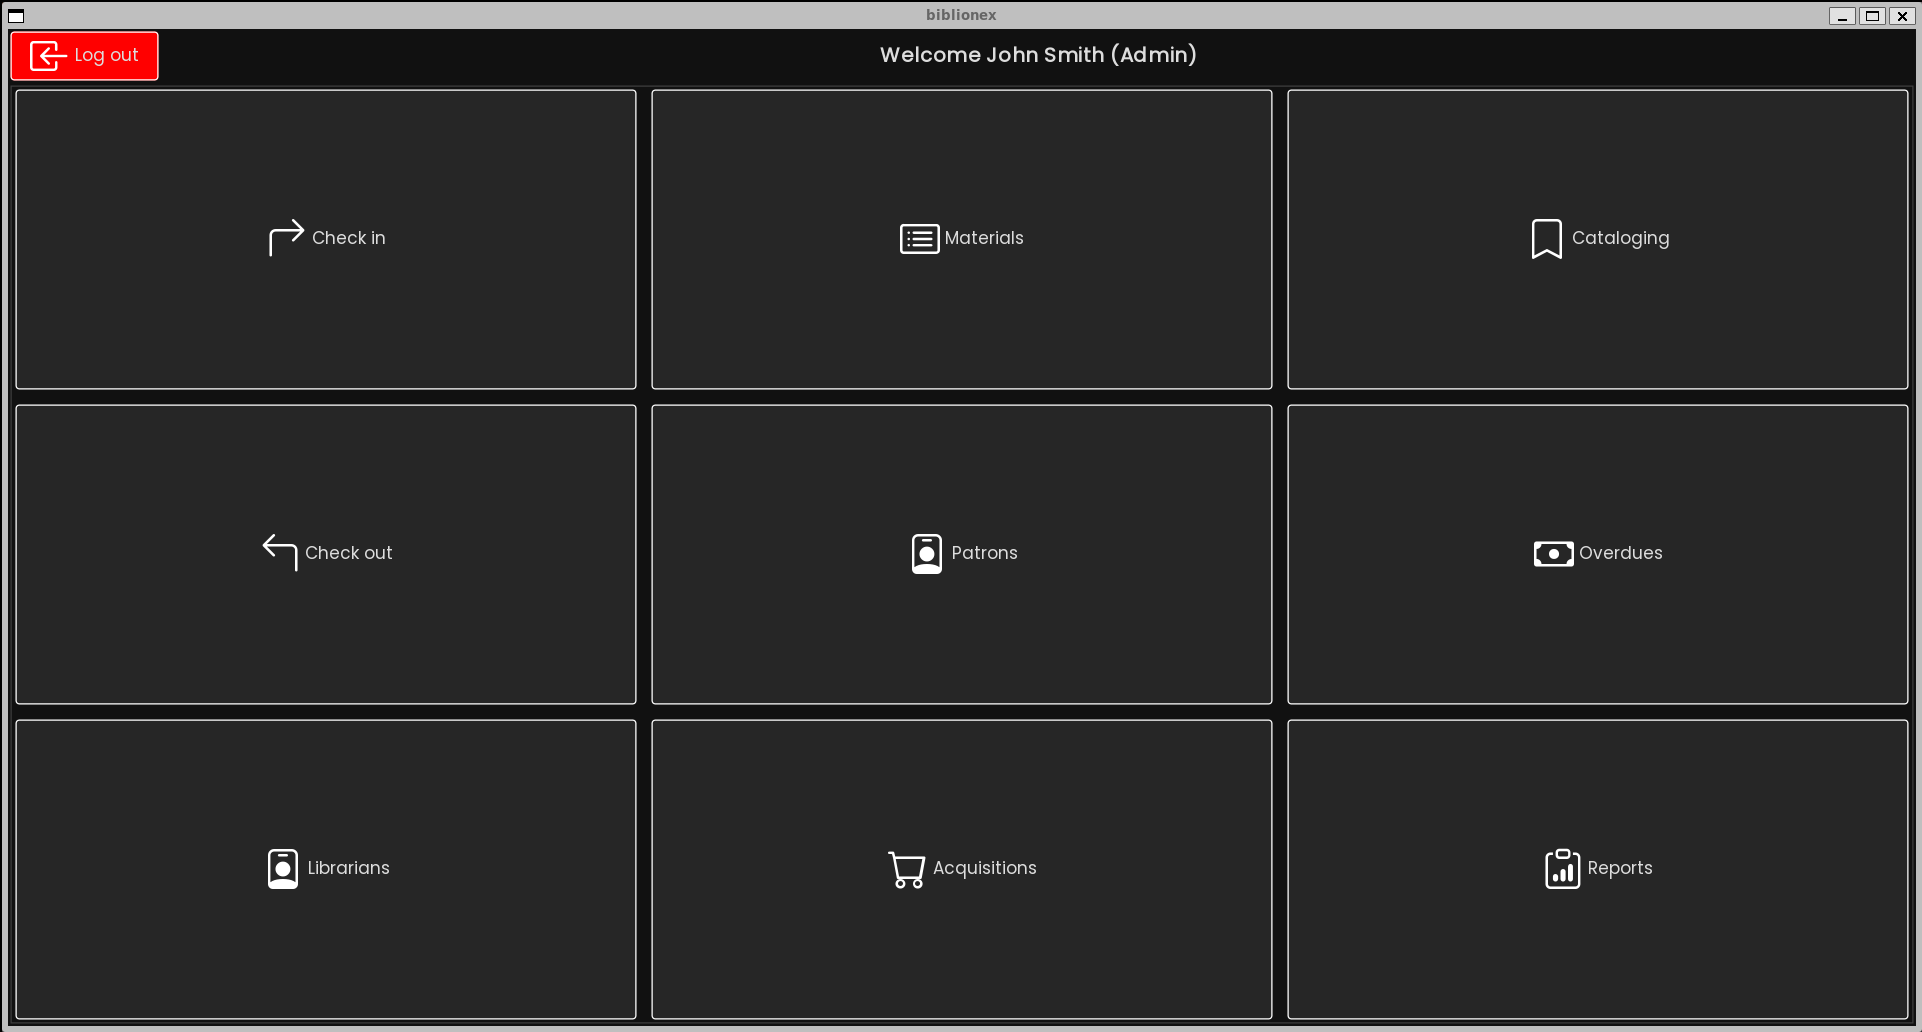
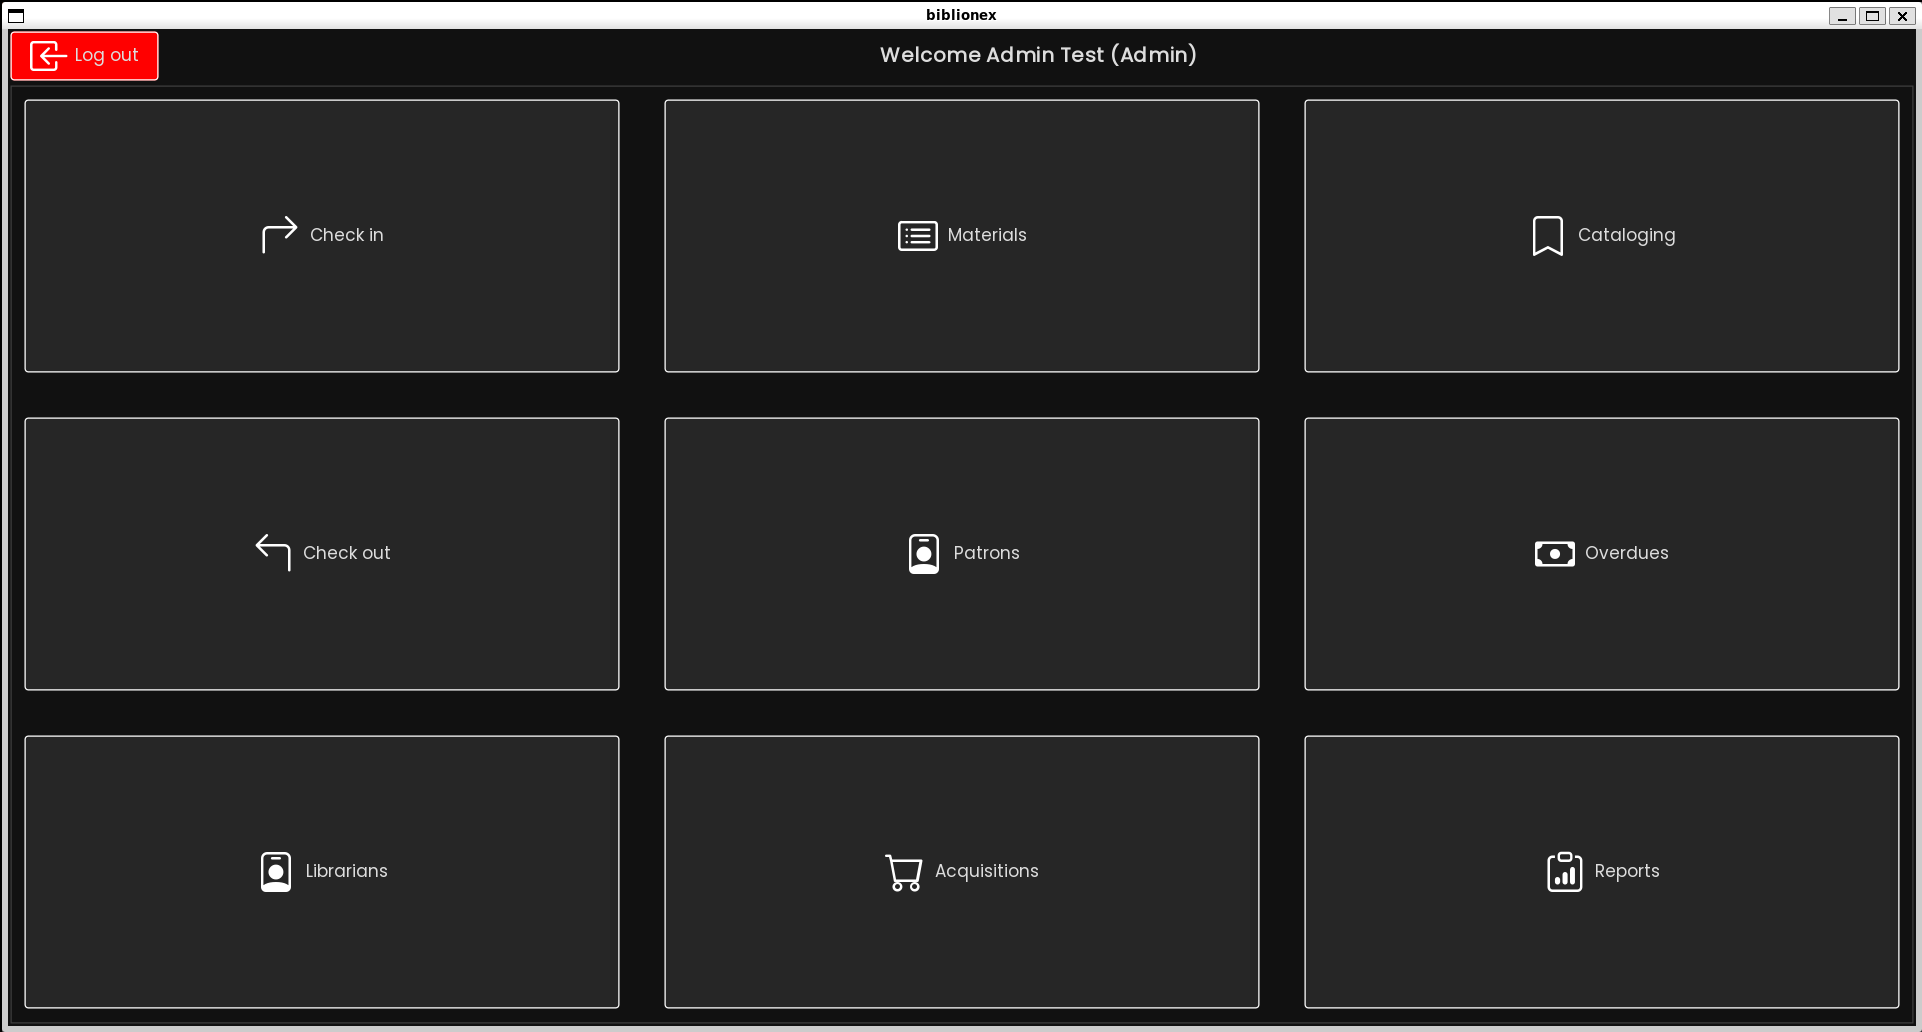
add screenshot splash screen and update admin dashboard screenshot

diff --git a/README.md b/README.md
@@ -8,7 +8,8 @@ Biblionex is a desktop application designed to facilitate the management of libr
 | ![Login page](screenshots/login.png )                    | ![Patron registration page](screenshots/patron-registration.png) |
 | ![Librarian dashboard](screenshots/admin-dashboard.png)  | ![Patron dashboard](screenshots/patron-dashboard.png)            |
 | ![Patron catalog](screenshots/patron-catalog.png)        | ![Material list page](screenshots/material-list.png)             |
-| ![Material creation form](screenshots/material-form.png) | ![Password reset email](screenshots/password-reset.png)         |
+| ![Material creation form](screenshots/material-form.png) | ![Password reset email](screenshots/password-reset.png)          |
+| ![Splash screen](screenshots/splash-screen.png)                       |
 
 ## Tools & Technologies
 
